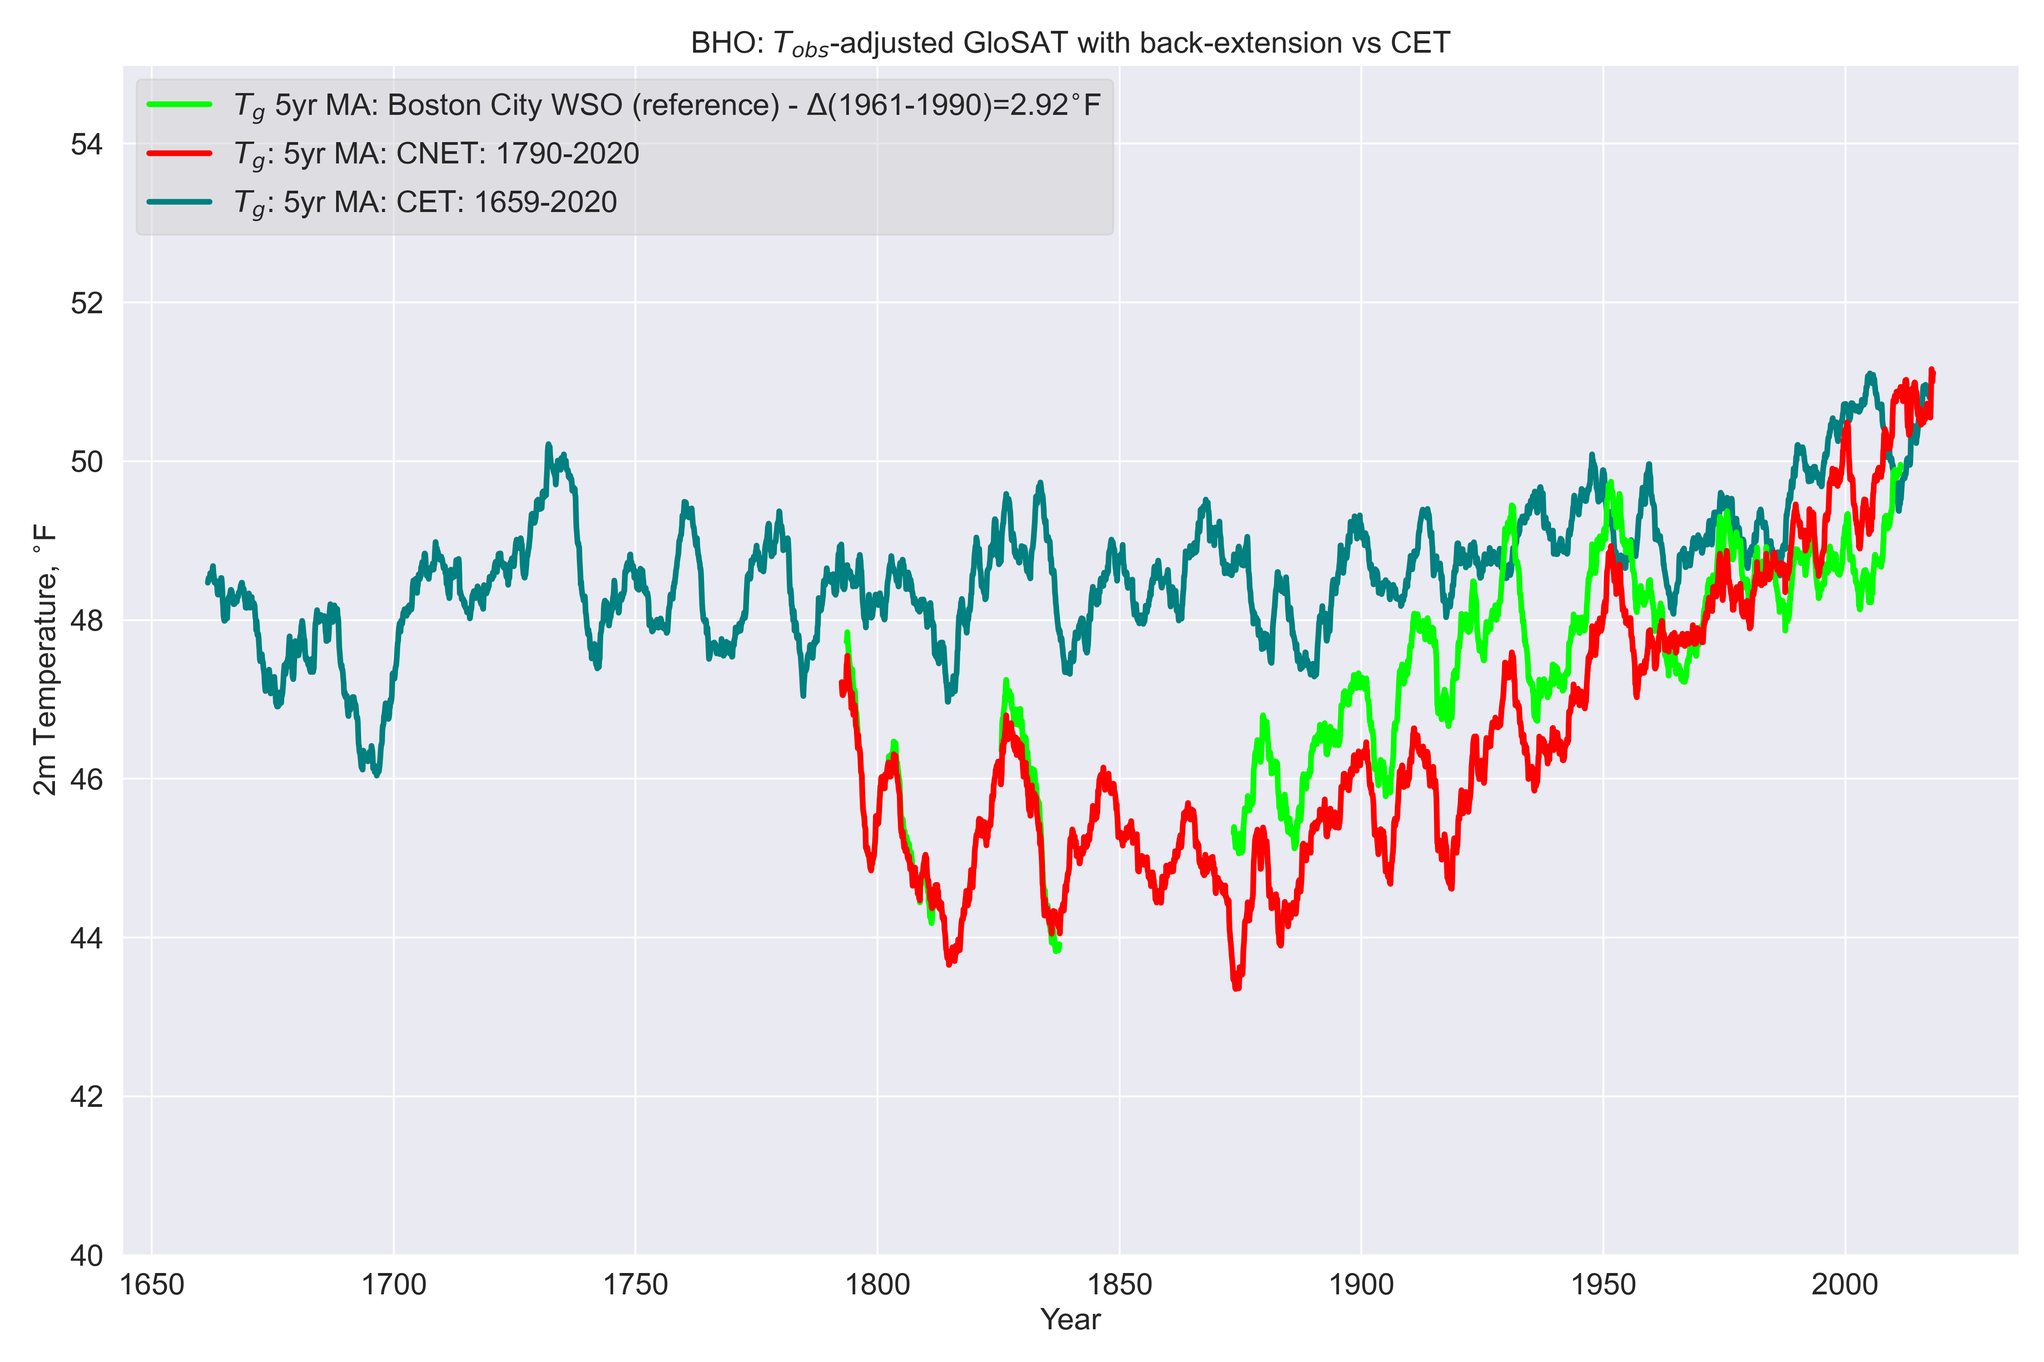
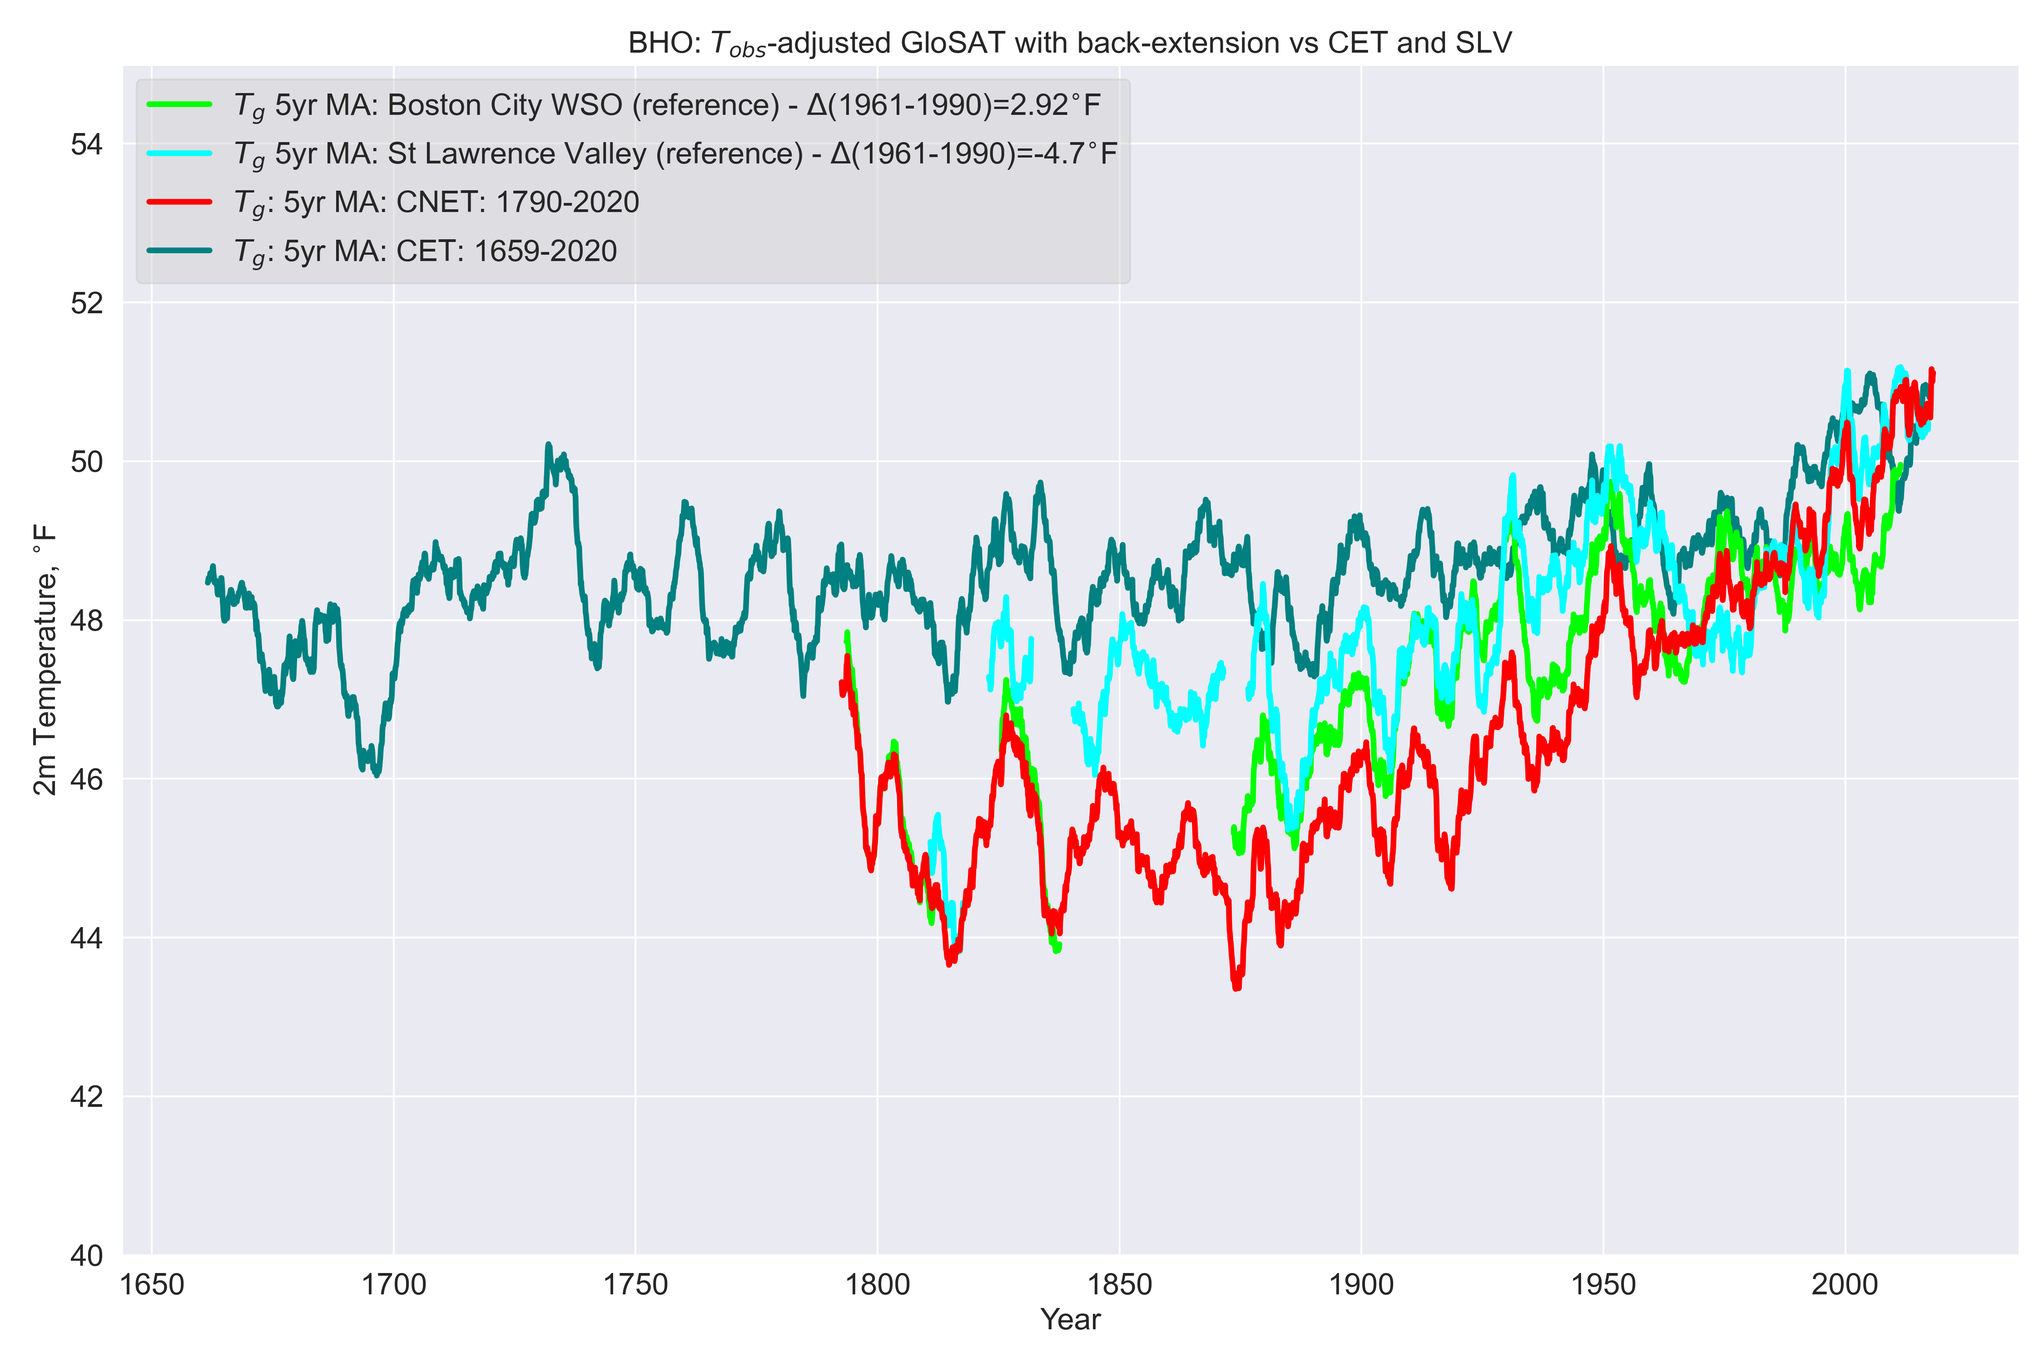
Added St Lawrence Valley 1799-2020 5yr MA comparison plot

diff --git a/load-new-england-datasets.py b/load-new-england-datasets.py
@@ -4,8 +4,8 @@
 #------------------------------------------------------------------------------
 # PROGRAM: load-new-england-datasets.py
 #------------------------------------------------------------------------------
-# Version 0.10
-# 3 July, 2021
+# Version 0.11
+# 6 July, 2021
 # Michael Taylor
 # https://patternizer.github.io
 # patternizer AT gmail DOT com
@@ -110,19 +110,20 @@ load_ghcnm = True
 load_20crv3 = True
 load_hadcrut5 = True
 load_cet = True
+load_st_lawrence_valley = True
 
 save_monthly_adjustments = True
 save_glosat_adjustments = True
 
-plot_historical = True
-plot_differences = True
-plot_differences_heatmap = True
-plot_kde = True
-plot_ghcn = True
-plot_inventory = True
-plot_glosat_neighbours = True
-plot_bho_all_sources = True
-plot_glosat_adjusted_vs_neighbours = True
+plot_historical = False
+plot_differences = False
+plot_differences_heatmap = False
+plot_kde = False
+plot_ghcn = False
+plot_inventory = False
+plot_glosat_neighbours = False
+plot_bho_all_sources = False
+plot_glosat_adjusted_vs_neighbours = False
 plot_glosat_adjusted_with_back_extension = True
 plot_glosat_adjusted_with_back_extension_vs_cet = True
 
@@ -281,6 +282,55 @@ if load_glosat == True:
     ts = np.array(da_west_medway.groupby('year').mean().iloc[:,0:12]).ravel()
     t = pd.date_range(start=str(da_west_medway.year.iloc[0]), periods=len(ts), freq='MS')
     df_west_medway = pd.DataFrame({'west_medway':ts}, index=t) 
+
+#==============================================================================
+    
+if load_st_lawrence_valley == True:
+    
+    # LOAD: St Lawrence Valley 1742-2020 data
+        
+    df_st_lawrence_valley = pd.read_csv('OUT/df_st_lawrence_valley.csv', index_col=0)
+    df_st_lawrence_valley.index = pd.to_datetime(df_st_lawrence_valley.index)
+    
+else:
+    
+    #-----------------------------------------------------------------------------
+    # LOAD: St Lawrence Valley (monthly)
+    #-----------------------------------------------------------------------------
+
+    # DATA: Victoria Slonosky, Canada
+            
+    nheader = 0
+    f = open('DATA/st-lawrence_valley_monthly_1742-2019_tmean.txt')
+    lines = f.readlines()
+    years = []
+    vals = []
+    for i in range(nheader,len(lines)):    
+        if i > 0:
+            year = lines[i][0:4]
+            words = lines[i].split('\t')
+            val = 12*[None]
+            for j in range(len(val)):
+                val[j] = float(words[j+1])
+            years.append(year)
+            vals.append(val) 
+    f.close()    
+    years = np.array(years).astype('int')
+    vals = np.array(vals)
+    
+    df = pd.DataFrame(columns=['year','1','2','3','4','5','6','7','8','9','10','11','12'])
+    df['year'] = years
+    for j in range(12):   
+        df[df.columns[j+1]] = [ float(vals[i][j]) for i in range(len(df)) ]
+    da_st_lawrence_valley = df.replace(-999.9,np.nan)    
+        
+    ts = np.array(da_st_lawrence_valley.groupby('year').mean().iloc[:,0:12]).ravel()
+    if da_st_lawrence_valley['year'].iloc[0] > 1678:
+        t_monthly = pd.date_range(start=str(da_st_lawrence_valley['year'].iloc[0]), periods=len(ts), freq='MS')          
+    else:
+        t_monthly = convert_datetime_to_year_decimal(da_st_lawrence_valley, 'year')            
+    df_st_lawrence_valley = pd.DataFrame({'df_st_lawrence_valley':ts}, index=t_monthly) 
+    df_st_lawrence_valley.to_csv('df_st_lawrence_valley.csv')
 
 #==============================================================================
     
@@ -1288,6 +1338,7 @@ if use_fahrenheit == True:
     df_hadcrut5_bho = pd.DataFrame({'df_hadcrut5_bho':centigrade_to_fahrenheit( df_hadcrut5_bho['T(2m)'] )})        
     df_hadcrut5_new_haven = pd.DataFrame({'df_hadcrut5_new_haven':centigrade_to_fahrenheit( df_hadcrut5_new_haven['T(2m)'] )})     
     df_cet = pd.DataFrame({'df_cet':centigrade_to_fahrenheit( df_cet['cet'] )})        
+    df_st_lawrence_valley = pd.DataFrame({'df_st_lawrence_valley':centigrade_to_fahrenheit( df_st_lawrence_valley['df_st_lawrence_valley'] )})        
     
 else:
     
@@ -1446,6 +1497,10 @@ normal_providence_wso = np.nanmean( df_providence_wso[
 (df_providence_wso.index>=pd.to_datetime('1961-01-01')) & 
 (df_providence_wso.index<=pd.to_datetime('1990-12-01')) ]['providence_wso'])
 
+normal_st_lawrence_valley = np.nanmean( df_st_lawrence_valley[     
+(df_st_lawrence_valley.index>=pd.to_datetime('1961-01-01')) & 
+(df_st_lawrence_valley.index<=pd.to_datetime('1990-12-01')) ]['df_st_lawrence_valley'])
+
 # CALCULATE: Holyoke daily T(919) and Wigglesworth daily T(919) and reample to monthly timescale
      
 df_holyoke_919 = (df_holyoke['T(08:00)']+df_holyoke['T(13:00)']+df_holyoke['T(22:00)']+df_holyoke['T(sunset)'])/4.0
@@ -1482,7 +1537,7 @@ df_blue_hill_1790_2020_tobs_adjusted = df_farrar_1790_1810_shifted.append(df_blu
 #------------------------------------------------------------------------------
 # SEABORN:
 #
-# sns.jointplot(x=x y=y, kind='kde', color='blue', marker='+', fill=True)  # kind{ “scatter” | “kde” | “hist” | “hex” | “reg” | “resid” }            
+# sns.jointplot(x=x, y=y, kind='kde', color='blue', marker='+', fill=True)  # kind{ “scatter” | “kde” | “hist” | “hex” | “reg” | “resid” }            
 
 # jointgrid = sns.JointGrid(x=x, y=y, data=df)
 # jointgrid.plot_joint(sns.scatterplot)
@@ -1497,17 +1552,17 @@ df_blue_hill_1790_2020_tobs_adjusted = df_farrar_1790_1810_shifted.append(df_blu
 # sns.histplot(x=x, y=y, bins=100, pthresh=0.01, cmap="Blues")
 # sns.kdeplot(x=x, y=y, levels=10, color="k", linewidths=1)
 # sns.kdeplot(x, color='blue', shade=True, alpha=0.2, legend=True, **kwargs, label='')
-# sns.boxplot(data = df_bho_monthly, orient = "v")
-# sns.violinplot(data = df_bho_monthly, orient = "v")
+# sns.boxplot(data = x, orient = "v")
+# sns.violinplot(data = x, orient = "v")
 #------------------------------------------------------------------------------
 
 #==============================================================================
 
 if plot_historical == True:
     
-    # PLOT: Holyoke observations (daily)
+    # PLOT: Holyoke + Wigglesworth daily observations + T919 (monthly) + Farrar monthly
     
-    print('plotting Holyoke (+ Farrar) osbervations ...')
+    print('plotting Holyoke (daily) + Farrar monthly osbervations ...')
         
     figstr = 'salem(MA)-holyoke-cambridge(MA)-farrar.png'
     titlestr = 'Salem, MA: Holyoke (sub-daily) and Cambridge, MA: Farrar (monthly mean) observations'
@@ -1560,6 +1615,65 @@ if plot_historical == True:
     plt.savefig(figstr, dpi=300)
     plt.close('all')
 
+    # PLOT: Holyoke + Wigglesworth daily observations + T919 (monthly) + Farrar monthly
+
+    print('plotting Holyoke + Wigglesworh + T919 + Farrar osbervations ...')
+        
+    figstr = 'salem(MA)-holyoke-wigglesworth-T919-cambridge(MA)-farrar.png'           
+    titlestr = 'Salem, MA: Holyoke (sub-daily) and Cambridge, MA: Farrar (monthly mean) observations'
+            
+    fig, axs = plt.subplots(figsize=(15,10))    
+    sns.lineplot(x=df_holyoke.index, y=(df_holyoke['T(08:00)']), ax=axs, marker='.', color='blue', alpha=1.0, label='Salem, MA (Holyoke): T(08:00)')
+    sns.lineplot(x=df_holyoke.index, y=(df_holyoke['T(13:00)']), ax=axs, marker='.', color='red', alpha=1.0, label='Salem, MA (Holyoke): T(13:00)')
+    sns.lineplot(x=df_holyoke.index, y=(df_holyoke['T(22:00)']), ax=axs, marker='.', color='purple', alpha=1.0, label='Salem, MA (Holyoke): T(22:00)')
+    sns.lineplot(x=df_holyoke.index, y=(df_holyoke['T(sunset)']), ax=axs, marker='.', color='orange', alpha=1.0, label='Salem, MA (Holyoke): T(sunset)')
+    sns.lineplot(x=df_holyoke_919.index, y=(df_holyoke_919['T(919)']), ax=axs, color='purple', ls='-', lw=3, alpha=1.0, label='Salem, MA (Holyoke): T(919) monthly')
+    sns.lineplot(x=df_wigglesworth_919.index, y=(df_wigglesworth_919['T(919)']), ax=axs, color='teal', ls='-', lw=3, alpha=1.0, label='Salem, MA (Wigglesworth): T(919) monthly')
+    sns.lineplot(x=df_farrar.index, y=(df_farrar['Tmean']), ax=axs, marker='.', color='navy', ls='-', lw=3, label='Cambridge, MA (Farrar): T(mean) monthly')    
+    if use_fahrenheit == True:
+        axs.set_ylim(-20,110)
+    else:
+        axs.set_ylim(-30,40)
+    axs.legend(loc='lower right', ncol=1, markerscale=1, facecolor='lightgrey', framealpha=0.5, fontsize=fontsize)    
+    axs.set_xlim(pd.Timestamp('1785-01-01'),pd.Timestamp('1835-01-01'))
+    axs.set_xlabel('Year', fontsize=fontsize)
+    axs.set_ylabel(r'2m Temperature, $^{\circ}$' + temperature_unit, fontsize=fontsize)
+    axs.set_title(titlestr, fontsize=fontsize)
+    axs.tick_params(labelsize=fontsize)    
+    fig.tight_layout()
+    plt.savefig(figstr, dpi=300)
+    plt.close('all')
+
+    # PLOT: Farrar (Tmean) vs Holyoke T919 and Wigglesworth T919
+    
+    print('plotting Farrar vs Holyoke T919 and Wigglesworh T919 ...')
+
+    figstr = 'salem(MA)-holyoke-T919-wigglesworth-T919-cambridge(MA)-farrar-regression.png'
+    titlestr = 'Salem, MA: Holyoke (sub-daily) plus T(919) monthly vs Cambridge, MA: Farrar (monthly mean) observations'
+            
+    fig, axs = plt.subplots(figsize=(15,10))
+        
+    x = df_farrar['Tmean']
+    y1 = df_holyoke_919['T(919)']
+    y2 = df_wigglesworth_919['T(919)']
+    sns.jointplot(x=x, y=y1, kind='kde', color='purple', marker='+', fill=True)  # kind{ “scatter” | “kde” | “hist” | “hex” | “reg” | “resid” }            
+    sns.jointplot(x=x, y=y2, kind='kde', color='teal', marker='+', fill=True)  # kind{ “scatter” | “kde” | “hist” | “hex” | “reg” | “resid” }            
+
+ #   if use_fahrenheit == True:
+ #       axs.set_ylim(-20,110)
+ #   else:
+ #       axs.set_ylim(-30,40)
+        
+#    axs.legend(loc='lower right', ncol=1, markerscale=1, facecolor='lightgrey', framealpha=0.5, fontsize=fontsize)    
+#    axs.set_xlim(pd.Timestamp('1785-01-01'),pd.Timestamp('1835-01-01'))
+#    axs.set_xlabel('Year', fontsize=fontsize)
+#    axs.set_ylabel(r'2m Temperature, $^{\circ}$' + temperature_unit, fontsize=fontsize)
+    axs.set_title(titlestr, fontsize=fontsize)
+    axs.tick_params(labelsize=fontsize)    
+    fig.tight_layout()
+    plt.savefig(figstr, dpi=300)
+    plt.close('all')
+            
 #==============================================================================
 
 if plot_differences == True:
@@ -2962,22 +3076,18 @@ if plot_glosat_adjusted_vs_neighbours == True:
 if plot_glosat_adjusted_with_back_extension == True:
         
     print('plotting GloSAT adjusted timeseries with back-extension ... ')   
-    
-    sequential_colors = sns.color_palette(color_palette, 3)
-    sns.set_palette(sequential_colors)
-    
+ 
+    nsmooth = 60
+       
     figstr = 'bho-glosat-tobs-adjusted-with-back-extension.png'
     titlestr = 'BHO: $T_{obs}$-adjusted GloSAT with back-extension'
-            
-    fig, ax = plt.subplots(figsize=(15,10))
-    
-    # PLOT: 2yr MA smoothed timeseries
-    
-    plt.plot(df_boston_city_wso.index, pd.Series(df_boston_city_wso['boston_city_wso']).rolling(24,center=True).mean() - (normal_boston_city_wso - normal_blue_hill), ls='-', lw=3, color='lime', alpha=1, zorder=5, label=r'$T_{g}$ 2yr MA: Boston City WSO (reference) - $\Delta$(1961-1990)=' + str(np.round((normal_boston_city_wso - normal_blue_hill),2)) + '$^{\circ}$' + temperature_unit)
-    plt.plot(df_holyoke_919.index, pd.Series(df_holyoke_919['T(919)']).rolling(24,center=True).mean() - (normal_boston_city_wso - normal_blue_hill), 'o', markersize=10, color='green', alpha=0.2, zorder=3, label=r'$T_{g}$ 2yr MA: Salem, MA (Holyoke) - $\Delta$(1961-1990)=' + str(np.round((normal_boston_city_wso - normal_blue_hill),2)) + '$^{\circ}$' + temperature_unit)
-    plt.plot(df_wigglesworth_919.index, pd.Series(df_wigglesworth_919['T(919)']).rolling(24,center=True).mean() - (normal_boston_city_wso - normal_blue_hill), 'o', markersize=10, color='teal', alpha=0.2, zorder=3, label=r'$T_{g}$ 2yr MA: Salem, MA (Wigglesworth) - $\Delta$(1961-1990)=' + str(np.round((normal_boston_city_wso - normal_blue_hill),2)) + '$^{\circ}$' + temperature_unit)
-    plt.plot(df_farrar_919.index, pd.Series(df_farrar_919['T(919)']).rolling(24,center=True).mean() - (normal_boston_city_wso - normal_blue_hill), 'o', markersize=10, color='navy', alpha=0.5, zorder=3, label=r'$T_{g}$ 2yr MA: Cambridge, MA (Farrar) - $\Delta$(1961-1990)=' + str(np.round((normal_boston_city_wso - normal_blue_hill),2)) + '$^{\circ}$' + temperature_unit)
-    plt.plot(df_blue_hill_1790_2020_tobs_adjusted.index, (pd.Series(df_blue_hill_1790_2020_tobs_adjusted['blue_hill'].values).rolling(24,center=True).mean()), ls='-', lw=3, color='red', alpha=1, zorder=20, label='$T_{g}$: 2yr MA: Tobs-adjusted GloSAT: 1790-2020')
+               
+    fig, ax = plt.subplots(figsize=(15,10))    
+    plt.plot(df_boston_city_wso.index, pd.Series(df_boston_city_wso['boston_city_wso']).rolling(nsmooth,center=True).mean() - (normal_boston_city_wso - normal_blue_hill), ls='-', lw=3, color='lime', alpha=1, zorder=5, label=r'$T_{g}$ 2yr MA: Boston City WSO (reference) - $\Delta$(1961-1990)=' + str(np.round((normal_boston_city_wso - normal_blue_hill),2)) + '$^{\circ}$' + temperature_unit)
+    plt.plot(df_holyoke_919.index, pd.Series(df_holyoke_919['T(919)']).rolling(nsmooth,center=True).mean() - (normal_boston_city_wso - normal_blue_hill), 'o', markersize=10, color='green', alpha=0.2, zorder=3, label=r'$T_{g}$ 2yr MA: Salem, MA (Holyoke) - $\Delta$(1961-1990)=' + str(np.round((normal_boston_city_wso - normal_blue_hill),2)) + '$^{\circ}$' + temperature_unit)
+    plt.plot(df_wigglesworth_919.index, pd.Series(df_wigglesworth_919['T(919)']).rolling(nsmooth,center=True).mean() - (normal_boston_city_wso - normal_blue_hill), 'o', markersize=10, color='teal', alpha=0.2, zorder=3, label=r'$T_{g}$ 2yr MA: Salem, MA (Wigglesworth) - $\Delta$(1961-1990)=' + str(np.round((normal_boston_city_wso - normal_blue_hill),2)) + '$^{\circ}$' + temperature_unit)
+    plt.plot(df_farrar_919.index, pd.Series(df_farrar_919['T(919)']).rolling(nsmooth,center=True).mean() - (normal_boston_city_wso - normal_blue_hill), 'o', markersize=10, color='navy', alpha=0.5, zorder=3, label=r'$T_{g}$ 2yr MA: Cambridge, MA (Farrar) - $\Delta$(1961-1990)=' + str(np.round((normal_boston_city_wso - normal_blue_hill),2)) + '$^{\circ}$' + temperature_unit)
+    plt.plot(df_blue_hill_1790_2020_tobs_adjusted.index, (pd.Series(df_blue_hill_1790_2020_tobs_adjusted['blue_hill'].values).rolling(nsmooth,center=True).mean()), ls='-', lw=3, color='red', alpha=1, zorder=20, label='$T_{g}$: 2yr MA: Tobs-adjusted GloSAT: 1790-2020')
     ax.set_xlim(pd.to_datetime('1743-01-01'),pd.to_datetime('1885-01-01'))    
     if use_fahrenheit == True:
         ax.set_ylim(40,55)
@@ -2998,13 +3108,16 @@ if plot_glosat_adjusted_with_back_extension_vs_cet == True:
         
     print('plotting GloSAT adjusted timeseries with back-extension vs CET ... ')   
         
+    nsmooth = 60
+    
     figstr = 'bho-glosat-tobs-adjusted-with-back-extension-cet.png'
-    titlestr = 'BHO: $T_{obs}$-adjusted GloSAT with back-extension vs CET'
+    titlestr = 'BHO: $T_{obs}$-adjusted GloSAT with back-extension vs CET and SLV'
             
     fig, ax = plt.subplots(figsize=(15,10))
-    plt.plot(convert_datetime_to_year_decimal(df_boston_city_wso, 'datetime'), pd.Series(df_boston_city_wso['boston_city_wso']).rolling(60,center=True).mean() - (normal_boston_city_wso - normal_blue_hill), ls='-', lw=3, color='lime', alpha=1, zorder=5, label=r'$T_{g}$ 5yr MA: Boston City WSO (reference) - $\Delta$(1961-1990)=' + str(np.round((normal_boston_city_wso - normal_blue_hill),2)) + '$^{\circ}$' + temperature_unit)
-    plt.plot(convert_datetime_to_year_decimal(df_blue_hill_1790_2020_tobs_adjusted, 'datetime'), (pd.Series(df_blue_hill_1790_2020_tobs_adjusted['blue_hill'].values).rolling(60,center=True).mean()), ls='-', lw=3, color='red', alpha=1, zorder=20, label='$T_{g}$: 5yr MA: CNET: 1790-2020')
-    plt.plot(df_cet.index, pd.Series(df_cet['df_cet']).rolling(60,center=True).mean(), ls='-', lw=3, color='teal', label='$T_{g}$: 5yr MA: CET: 1659-2020')
+    plt.plot(convert_datetime_to_year_decimal(df_boston_city_wso, 'datetime'), pd.Series(df_boston_city_wso['boston_city_wso']).rolling(nsmooth,center=True).mean() - (normal_boston_city_wso - normal_blue_hill), ls='-', lw=3, color='lime', alpha=1, zorder=5, label=r'$T_{g}$ 5yr MA: Boston City WSO (reference) - $\Delta$(1961-1990)=' + str(np.round((normal_boston_city_wso - normal_blue_hill),2)) + '$^{\circ}$' + temperature_unit)
+    plt.plot(convert_datetime_to_year_decimal(df_st_lawrence_valley, 'datetime'), pd.Series(df_st_lawrence_valley['df_st_lawrence_valley']).rolling(nsmooth,center=True).mean() - (normal_st_lawrence_valley - normal_blue_hill), ls='-', lw=3, color='cyan', alpha=1, zorder=5, label=r'$T_{g}$ 5yr MA: St Lawrence Valley (reference) - $\Delta$(1961-1990)=' + str(np.round((normal_st_lawrence_valley - normal_blue_hill),2)) + '$^{\circ}$' + temperature_unit)
+    plt.plot(convert_datetime_to_year_decimal(df_blue_hill_1790_2020_tobs_adjusted, 'datetime'), (pd.Series(df_blue_hill_1790_2020_tobs_adjusted['blue_hill'].values).rolling(nsmooth,center=True).mean()), ls='-', lw=3, color='red', alpha=1, zorder=20, label='$T_{g}$: 5yr MA: CNET: 1790-2020')
+    plt.plot(df_cet.index, pd.Series(df_cet['df_cet']).rolling(nsmooth,center=True).mean(), ls='-', lw=3, color='teal', label='$T_{g}$: 5yr MA: CET: 1659-2020')
     if use_fahrenheit == True:
         ax.set_ylim(40,55)
     else:
